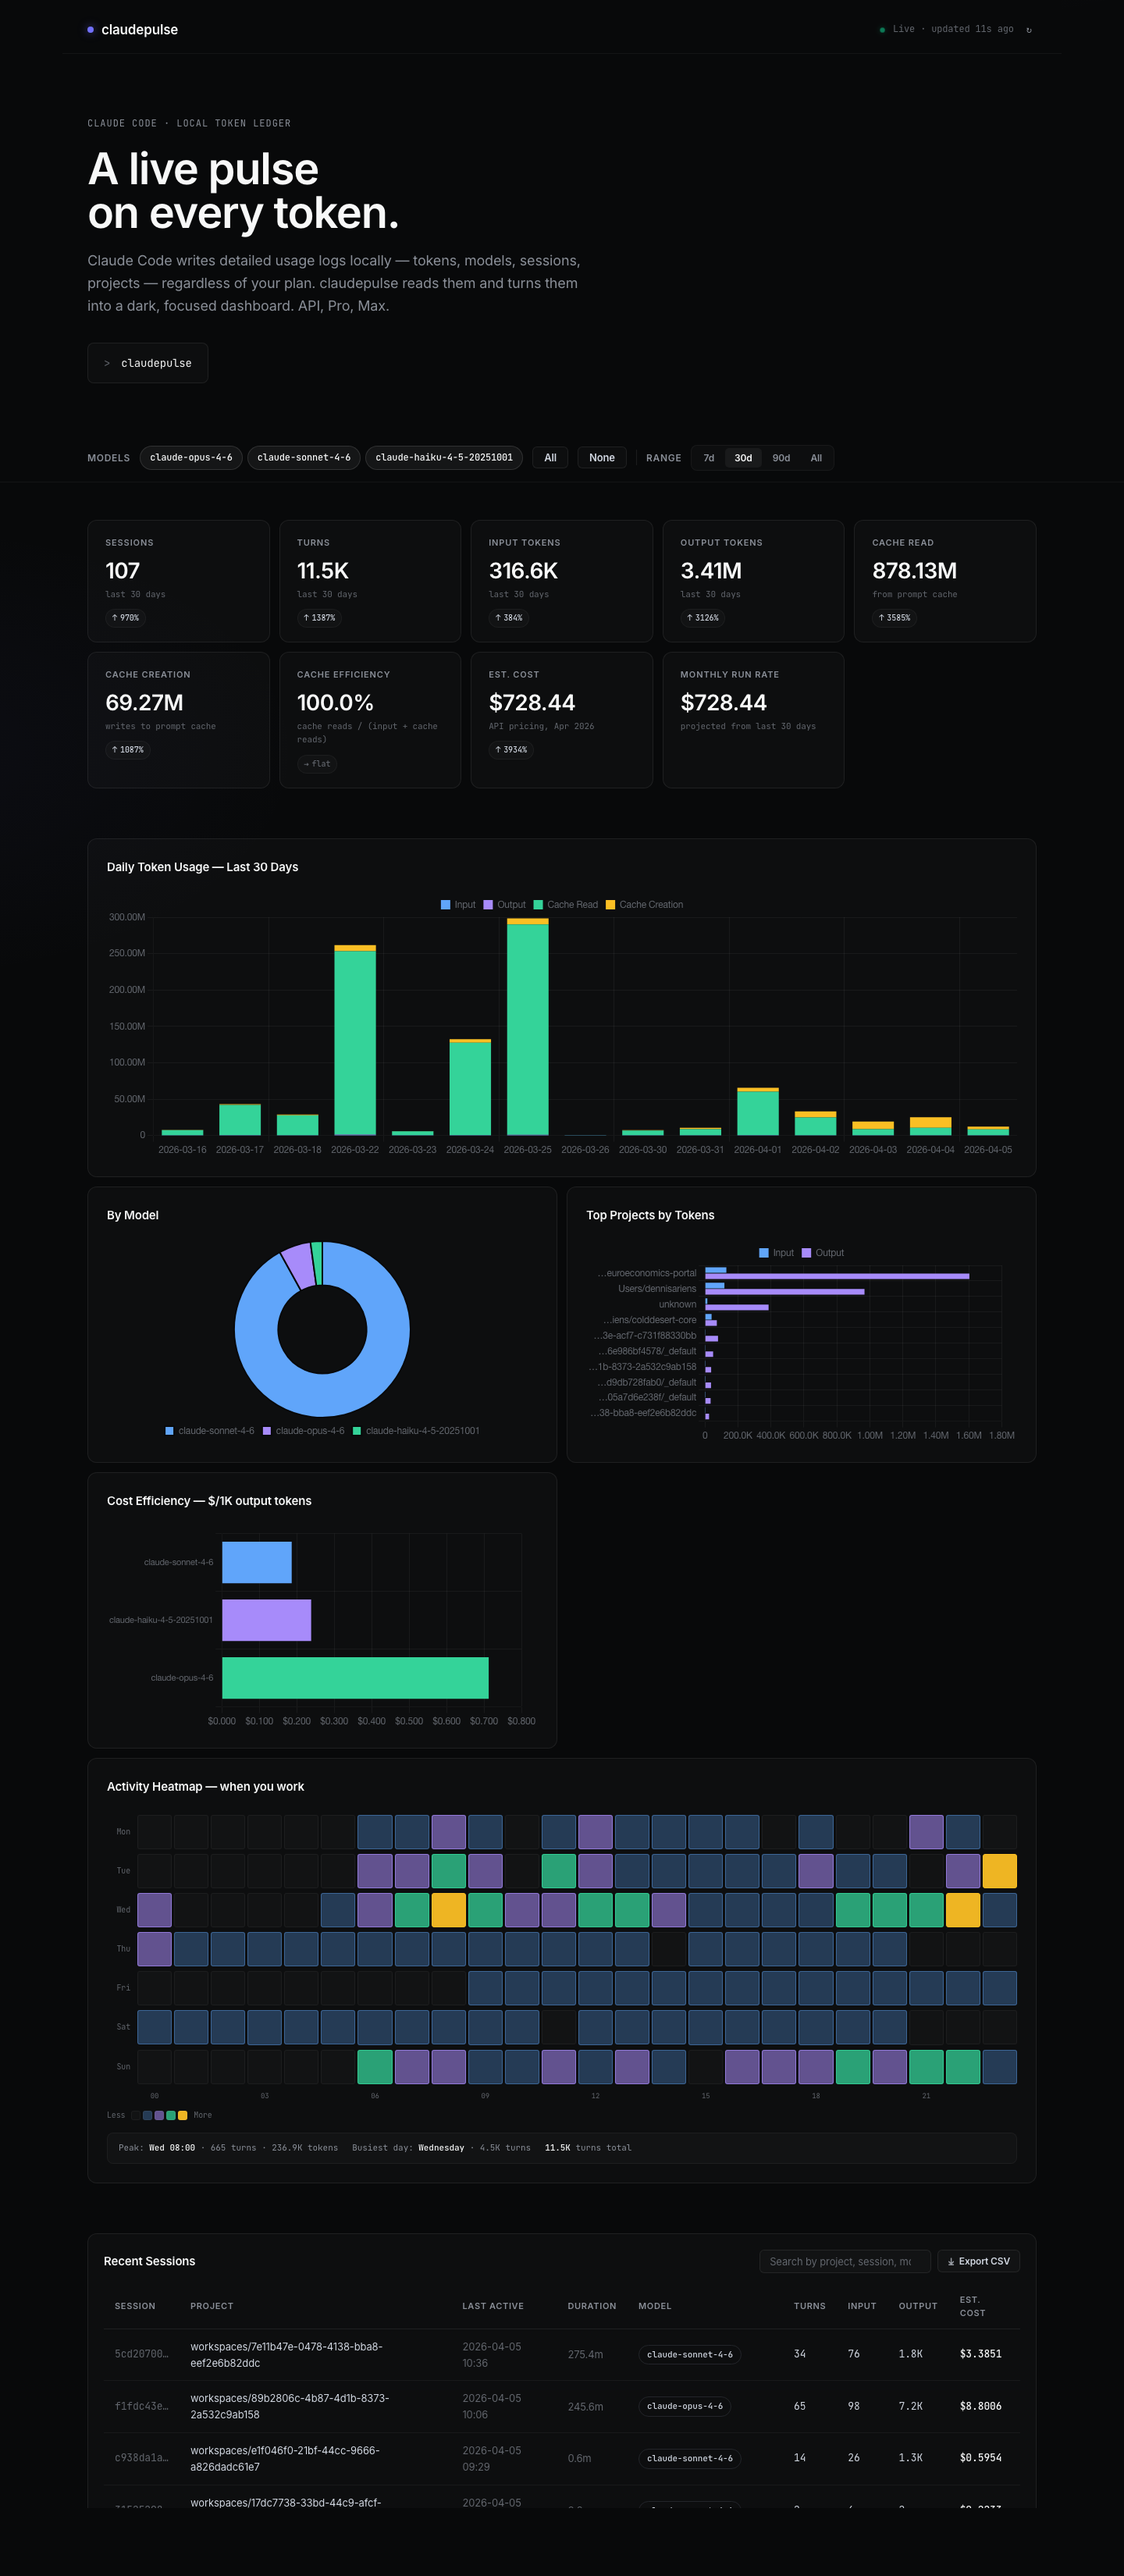
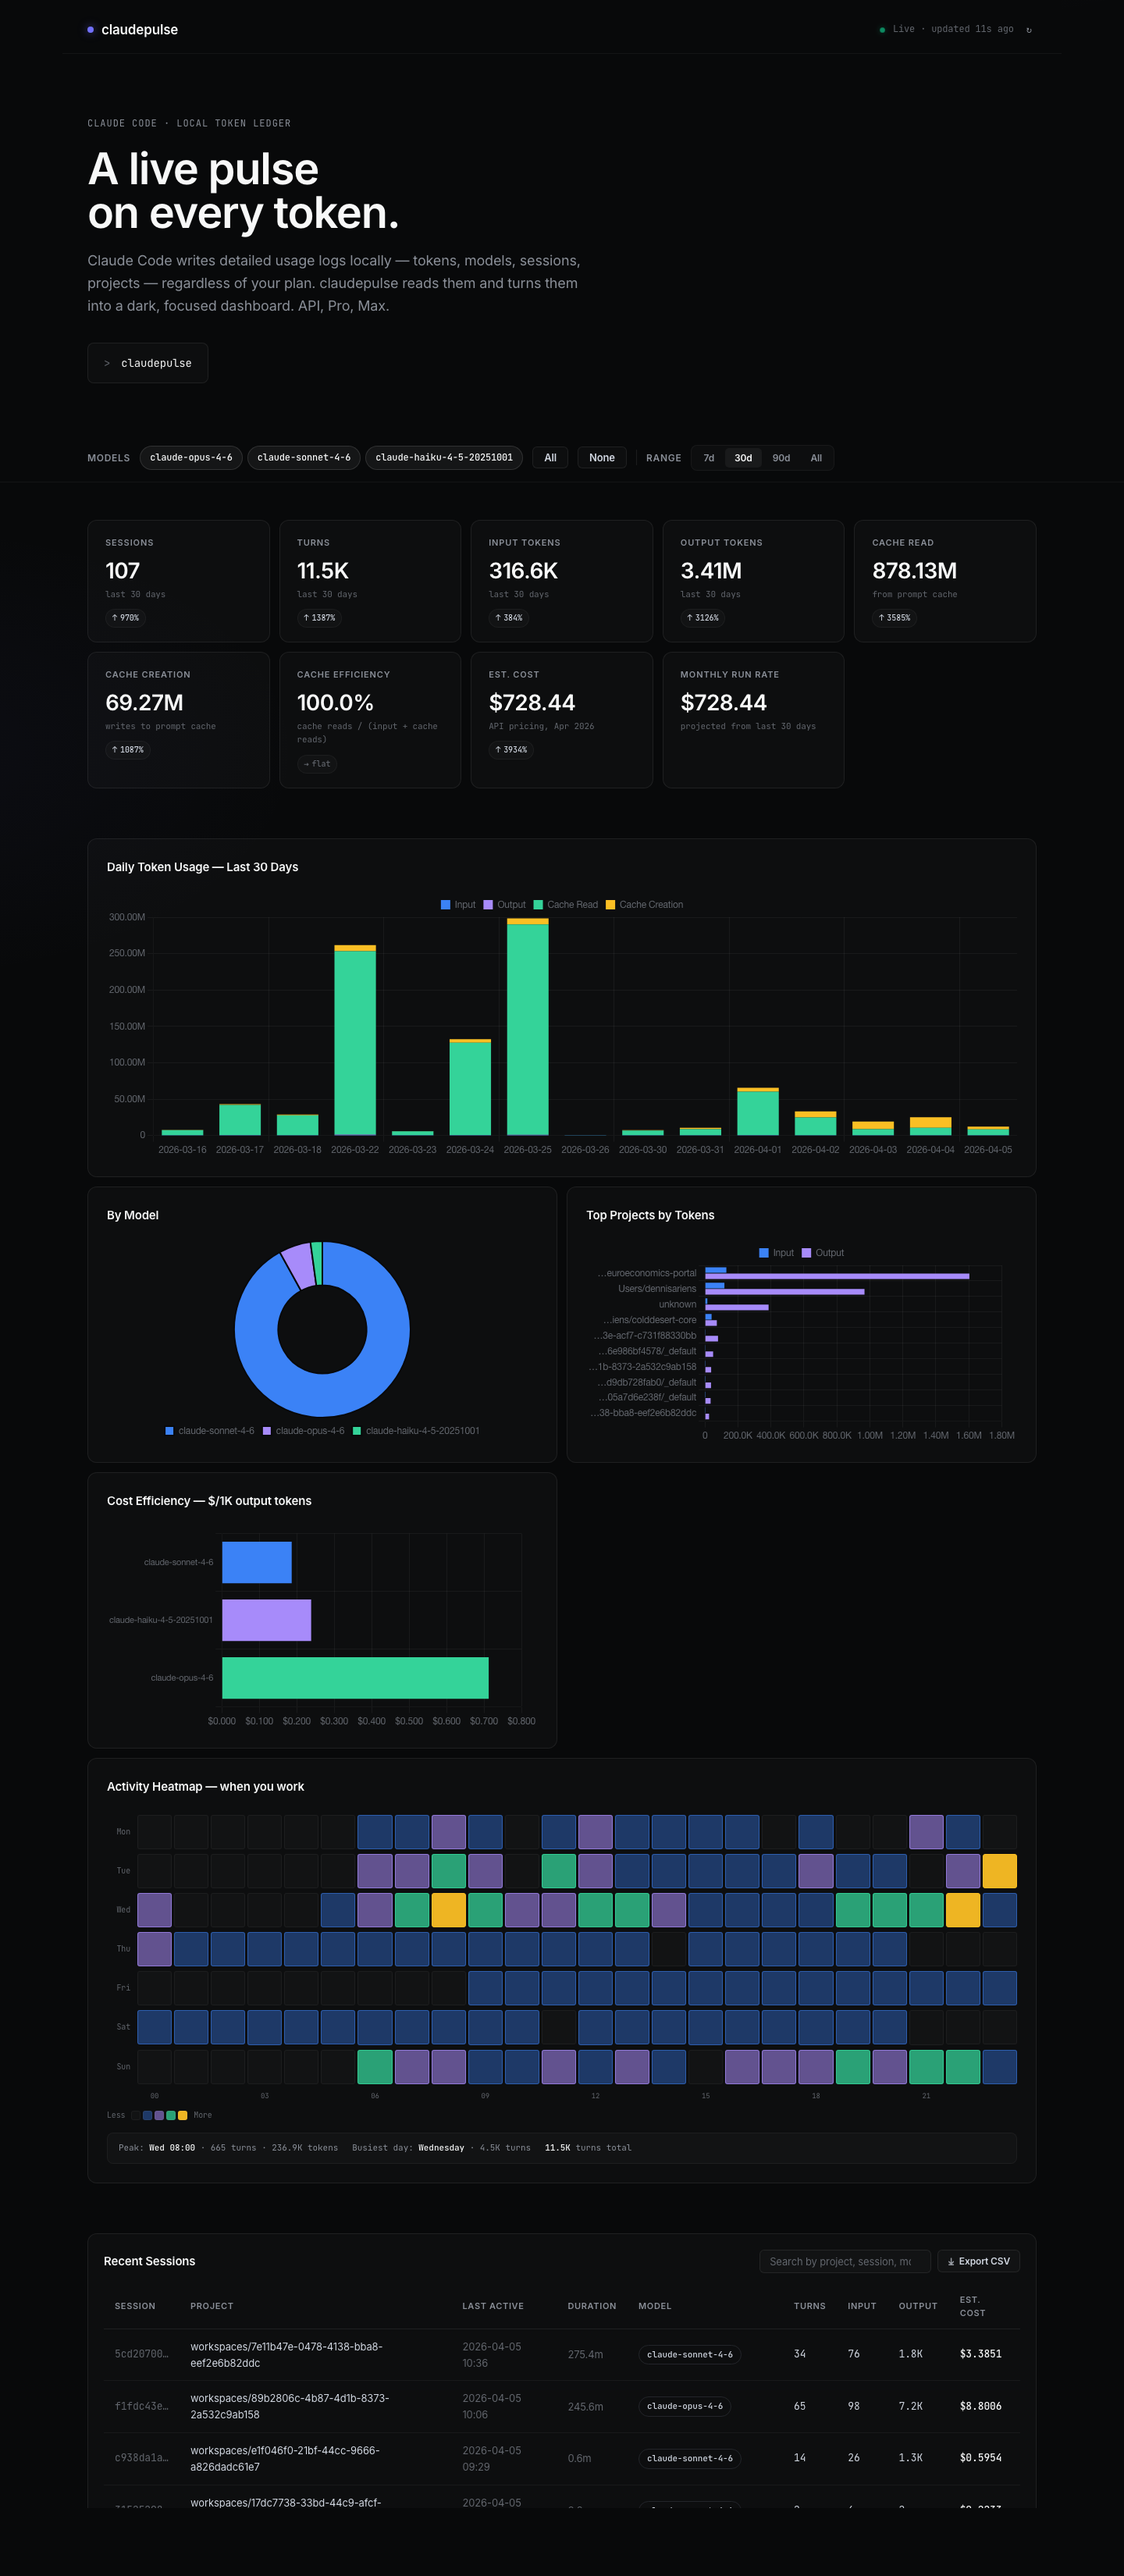
v1.1.1: swap input color to Claude Sonnet blue (#3b82f6)

Changed region(s): [[0.1875, 0.4682, 0.375, 0.5618], [0.1875, 0.593, 0.2812, 0.6242]]

diff --git a/dashboard.py b/dashboard.py
@@ -307,7 +307,7 @@ HTML_TEMPLATE = r"""<!DOCTYPE html>
   .heatmap-tooltip .tt-val { color: var(--text-primary); font-weight: 500; }
   .heatmap-tooltip .tt-sub { color: var(--text-tertiary); margin-top: 4px; }
   .heatmap-cell[data-level="0"] { background: rgba(255,255,255,0.02); }
-  .heatmap-cell[data-level="1"] { background: rgba(96,165,250,0.30);  border-color: rgba(96,165,250,0.40); }  /* input blue */
+  .heatmap-cell[data-level="1"] { background: rgba(59,130,246,0.38);  border-color: rgba(59,130,246,0.50); }  /* input sonnet blue */
   .heatmap-cell[data-level="2"] { background: rgba(167,139,250,0.55); border-color: rgba(167,139,250,0.70); } /* output violet */
   .heatmap-cell[data-level="3"] { background: rgba(52,211,153,0.75);  border-color: rgba(52,211,153,0.85); }  /* cache read emerald */
   .heatmap-cell[data-level="4"] { background: rgba(251,191,36,0.95);  border-color: rgba(251,191,36,1.0); }   /* cache creation amber */
@@ -337,7 +337,7 @@ HTML_TEMPLATE = r"""<!DOCTYPE html>
   .session-detail .field .v { font-size: 13px; color: var(--text-primary); font-family: var(--font-mono); letter-spacing: -0.13px; }
   .session-detail .bar { grid-column: 1 / -1; display: flex; height: 8px; border-radius: 4px; overflow: hidden; background: var(--surface-ghost); border: 1px solid var(--border-subtle); margin-top: 4px; }
   .session-detail .bar > span { display: block; height: 100%; }
-  .session-detail .bar .b-input   { background: #60a5fa; }
+  .session-detail .bar .b-input   { background: #3b82f6; }
   .session-detail .bar .b-output  { background: #a78bfa; }
   .session-detail .bar .b-cread   { background: #34d399; }
   .session-detail .bar .b-ccreate { background: #fbbf24; }
@@ -454,7 +454,7 @@ HTML_TEMPLATE = r"""<!DOCTYPE html>
         <span>Less</span>
         <div class="swatches">
           <div class="sw" data-level="0" style="background: rgba(255,255,255,0.02);"></div>
-          <div class="sw" style="background: rgba(96,165,250,0.30);"></div>
+          <div class="sw" style="background: rgba(59,130,246,0.38);"></div>
           <div class="sw" style="background: rgba(167,139,250,0.55);"></div>
           <div class="sw" style="background: rgba(52,211,153,0.75);"></div>
           <div class="sw" style="background: rgba(251,191,36,0.95);"></div>
@@ -596,13 +596,13 @@ function fmtCostBig(c) { return '$' + c.toFixed(2); }
 // Multi-hue data palette — saturated, high-contrast on dark. Mixes cool + warm
 // for real category separation. Brand indigo is reserved for chrome (logo, focus).
 const TOKEN_COLORS = {
-  input:          '#60a5fa',  // sky blue
+  input:          '#3b82f6',  // sonnet blue
   output:         '#a78bfa',  // violet
   cache_read:     '#34d399',  // emerald
   cache_creation: '#fbbf24',  // amber
 };
 // Four brand colors only. If there are more than 4 models, the palette cycles.
-const MODEL_COLORS = ['#60a5fa', '#a78bfa', '#34d399', '#fbbf24'];
+const MODEL_COLORS = ['#3b82f6', '#a78bfa', '#34d399', '#fbbf24'];
 const TICK_COLOR = '#62666d';
 const GRID_COLOR = 'rgba(255,255,255,0.05)';
 

diff --git a/cli.py b/cli.py
@@ -280,7 +280,7 @@ Usage:
   claudepulse --version  Show version
 """
 
-__version__ = "1.1.0"
+__version__ = "1.1.1"
 
 COMMANDS = {
     "scan": cmd_scan,

diff --git a/CHANGELOG.md b/CHANGELOG.md
@@ -2,6 +2,12 @@
 
 All notable changes to claudepulse will be documented here.
 
+## [1.1.1] - 2026-04-08
+
+### Changed
+- **Input blue** swapped from sky-400 (`#60a5fa`) to sonnet blue (`#3b82f6`) across the entire palette — Daily Token Usage stack, heatmap level-1, session-detail mini-bar, cost efficiency chart, and model doughnut. Richer, warmer, more on-brand with Claude Sonnet.
+- Heatmap level-1 opacity bumped 0.30 → 0.38 so low-activity cells read as a proper blue instead of a muted haze.
+
 ## [1.1.0] - 2026-04-08
 
 ### Added
